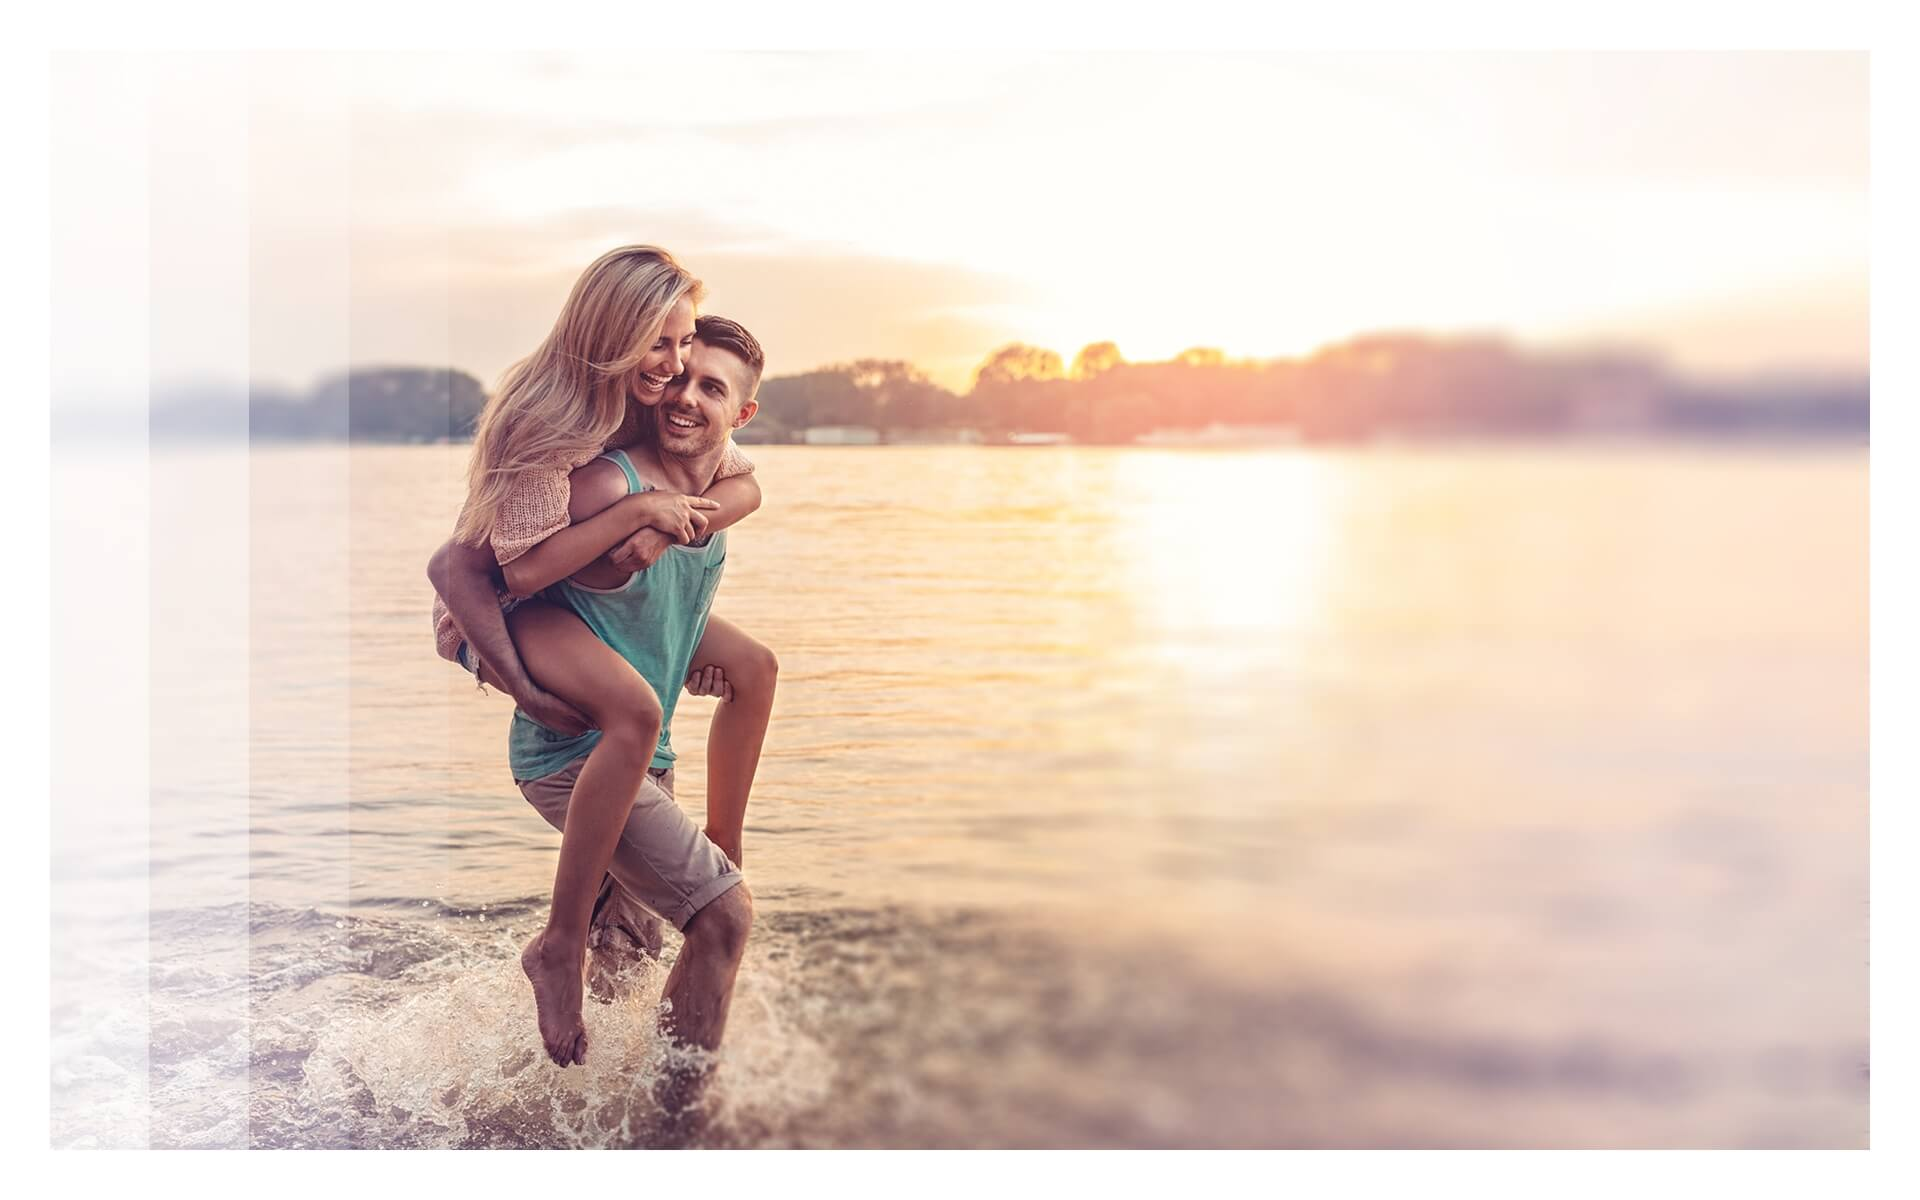
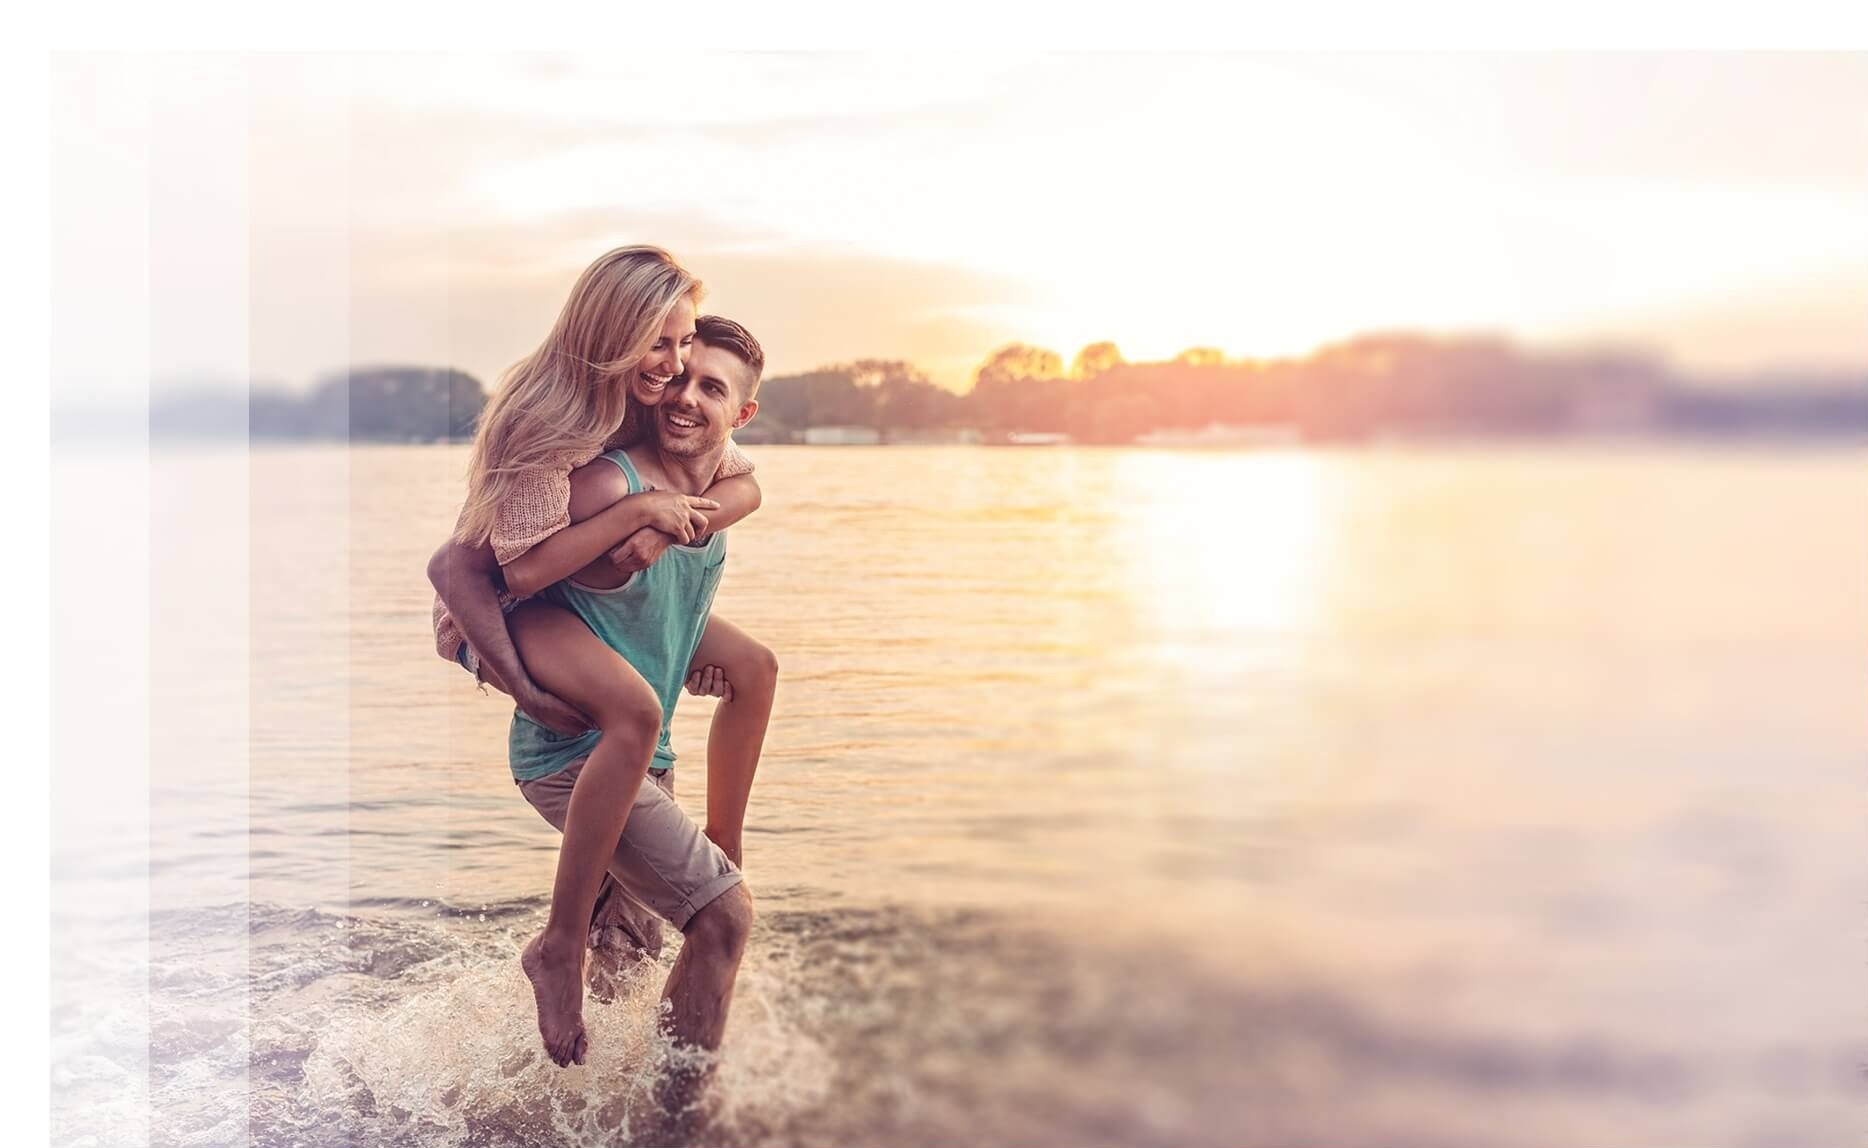
fix why section

diff --git a/stories/layouts/why.stories.js b/stories/layouts/why.stories.js
@@ -1,91 +1,72 @@
 import { storiesOf } from '@storybook/html';
 
 import '../../resources/assets/styles/main.scss';
-import sectionbg from '../../resources/assets/images/info-section-bg.png';
-import iconbox from '../../resources/assets/images/icon-box.png';
+import sectionbg from '../../resources/assets/images/info-section-bg.jpg';
+import icon from '../../resources/assets/images/icon-box.png';
+
+const iconBox = `
+  <div class="icon-box">
+    <h3 class="text text--light">
+      Rodzinnie i komfortowo
+    </h3>
+    <div>
+      <img class="icon-box__icon" src="${icon}" alt="icon">
+    </div>
+    <hr class="icon-box__line">
+    <h3 class="text text--light">
+      Rodzina, komfort, <br>
+      bezpieczeństwo
+    </h3>
+    <p class="small-text icon-box__desc">
+      Nasze apartamenty na Osiedlu Juno są doskonałą propozycją dla rodzin, turystów marzących o mieszkaniu na Mazurach, a także dla ludzi, którzy cenią sobie komfort. 
+    </p>  
+  </div>
+`
+
+const why = `
+<section class="info-section">
+    <img class="info-section__bg" src="${sectionbg}" alt="background">
+
+    <div class="info-section__content">
+      <div class="info-section__boxes">
+        <!-- Icon Box -->
+          ${iconBox}
+          ${iconBox}
+          ${iconBox}
+        <!--/ Icon Box -->
+      </div>
+      <div class="info-section__desc">
+        <div class="card-block">
+          <h2 class="section-header card-block__title">
+            <span class="title section-header__title--left">
+              Dlaczego warto
+            </span>
+            <span class="section-header__sub--left subtitle">
+              tu zamieszkać?
+            </span>
+          </h2>
+          <p class="text card-block__text">
+            Osiedle Juno to nowoczesne 13-rodzinne bloki, które osadzone zostały w pięknym mazurskim krajobrazie, nad brzegiem jeziora Juno w Mrągowie.
+          </p>
+
+          <button href="#" class="button button--secondary text  main text--thin">
+            Znajdź swoje mieszkanie
+          </button>
+        </div>
+      </div>
+    </div>
+  </section>
+`
 
 storiesOf('Layouts', module)
   .add('Why', () => `
     <h2 class="subtitle bold">Why section</h2>
     <hr>
-    <section class="info-section">
-      <img class="info-section__bg" src="${sectionbg}" alt="background">
-
-      <div class="info-section__content">
-        <div class="info-section__boxes">
-          <div class="icon-box">
-            <h3 class="text text--light">
-              Rodzinnie i komfortowo
-            </h3>
-            <div>
-              <img class="icon-box__icon" src="${iconbox}" alt="icon">
-            </div>
-            <hr class="icon-box__hr">
-            <h3 class="text text--light">
-            Rodzina, komfort, <br>
-            bezpieczeństwo
-            </h3>
-            <p class="small-text icon-box__desc">
-            Nasze apartamenty na Osiedlu Juno są doskonałą propozycją dla rodzin, turystów marzących o mieszkaniu na Mazurach, a także dla ludzi, którzy cenią sobie komfort. 
-            </p>  
-          </div>
-          <div class="icon-box">
-            <h3 class="text text--light">
-              Rodzinnie i komfortowo
-            </h3>
-            <div>
-              <img class="icon-box__icon" src="${iconbox}" alt="icon">
-            </div>
-            <hr class="icon-box__hr">
-            <h3 class="text text--light">
-            Rodzina, komfort, <br>
-            bezpieczeństwo
-            </h3>
-            <p class="small-text icon-box__desc">
-            Nasze apartamenty na Osiedlu Juno są doskonałą propozycją dla rodzin, turystów marzących o mieszkaniu na Mazurach, a także dla ludzi, którzy cenią sobie komfort. 
-            </p>  
-          </div>
-          <div class="icon-box">
-            <h3 class="text text--light">
-              Rodzinnie i komfortowo
-            </h3>
-            <div>
-              <img class="icon-box__icon" src="${iconbox}" alt="icon">
-            </div>
-            <hr class="icon-box__hr">
-            <h3 class="text text--light">
-            Rodzina, komfort, <br>
-            bezpieczeństwo
-            </h3>
-            <p class="small-text icon-box__desc">
-            Nasze apartamenty na Osiedlu Juno są doskonałą propozycją dla rodzin, turystów marzących o mieszkaniu na Mazurach, a także dla ludzi, którzy cenią sobie komfort. 
-            </p>  
-          </div>
-        </div>
-        <div class="info-section__desc">
-          <div class="info-section__desc-content">
-            <h2 class="section-header info-section__desc-h">
-              <span class="title section-header__title--left">
-                Dlaczego warto
-              </span>
-              <span class="section-header__sub--left subtitle">
-                tu zamieszkać?
-              </span>
-            </h2>
-            <p class="text info-section__desc-p">
-              Osiedle Juno to nowoczesne 13-rodzinne bloki, które osadzone zostały w pięknym mazurskim krajobrazie, nad brzegiem jeziora Juno w Mrągowie.
-            </p>
-
-            <button href="#" class="button button--secondary text  main text--thin">
-              Znajdź swoje mieszkanie
-            </button>
-          </div>
-        </div>
-      </div>
-    </section>
+      ${why}
     <br>
     <br>
     <xmp>
+      ${why}
     </xmp>
 
   `);

diff --git a/resources/assets/styles/layouts/info-section.scss b/resources/assets/styles/layouts/info-section.scss
@@ -1,21 +1,25 @@
-.info-section{
-  color: map-get($theme-colors, light);
+.info-section {
+  @extend .overlay;
+
+  color: color(light);
   position: relative;
 
   &__bg {
+    @extend .image;
+
+    object-position: center 80%;
     position: absolute;
     top: 0;
     left: 0;
     z-index: -1;
-    width: 100%;
-    heighT: 100%;
-    object-fit: cover;
   }
 
   &__content {
     padding: ($gutter * 8) ($gutter * 5);
     display: flex;
     flex-wrap: wrap;
+    z-index: 10;
+    position: relative;
   }
 
   &__boxes {
@@ -28,21 +32,5 @@
 
   &__desc {
     width: 45%;
-
-    &-content {
-      padding: 0 ($gutter * 10) 0 ($gutter * 15) ;
-    }
-
-    &-h {
-      margin-top: 0;
-    }
-
-    &-p {
-      color: map-get($theme-colors, light);
-      opacity: 0.6;
-      max-width: $gutter * 60;
-      padding-top: $gutter * 2;
-      padding-bottom: $gutter * 7;
-    }
   }
 }

diff --git a/resources/assets/styles/components/icon-box.scss b/resources/assets/styles/components/icon-box.scss
@@ -1,9 +1,8 @@
 .icon-box {
-  color: map-get($theme-colors, light);
-  background: map-get($theme-colors, secondary);
-  padding: $gutter*4;
+  color: color(light);
+  background: color(secondary);
+  padding: $gutter * 4;
   text-align: center;
-  //max-width: 300px;
 
   &__icon {
     width: $gutter * 8;
@@ -12,15 +11,15 @@
     padding: $gutter * 3;
   }
 
-  &__hr {
-    border-bottom: 2px solid map-get($theme-colors, light);
+  &__line {
+    border-bottom: 2px solid color(light);
     border-top: 0;
-    margin-bottom: $gutter*2.5;
+    margin-bottom: $gutter * 2.5;
   }
 
   &__desc {
-    color: map-get($theme-colors, light);
-    opacity: 0.8;
+    color: color(light);
+    opacity: 1;
     max-width: $gutter * 25;
     margin: auto;
     padding-top: $gutter * 3;

diff --git a/resources/assets/styles/blocks/card-block.scss b/resources/assets/styles/blocks/card-block.scss
@@ -1,0 +1,15 @@
+.card-block {
+  padding: 0 ($gutter * 10) 0 ($gutter * 15);
+
+  &__title {
+    margin-top: 0;
+  }
+
+  &__text {
+    color: color(light);
+    opacity: 0.6;
+    max-width: $gutter * 60;
+    padding-top: $gutter * 2;
+    padding-bottom: $gutter * 7;
+  }
+}

diff --git a/resources/assets/styles/main.scss b/resources/assets/styles/main.scss
@@ -38,6 +38,7 @@
 @import "blocks/product-block.scss";
 @import "blocks/section-header.scss";
 @import "blocks/product-block";
+@import "blocks/card-block";
 
 /** Layouts */
 @import "layouts/section";

diff --git a/resources/assets/styles/common/_extends.scss b/resources/assets/styles/common/_extends.scss
@@ -12,3 +12,12 @@
   height: 100%;
   object-fit: cover;
 }
+
+.overlay {
+  &::before {
+    @extend .absolute;
+
+    content: "";
+    background-color: rgba(color("primary"), 0.8);
+  }
+}
